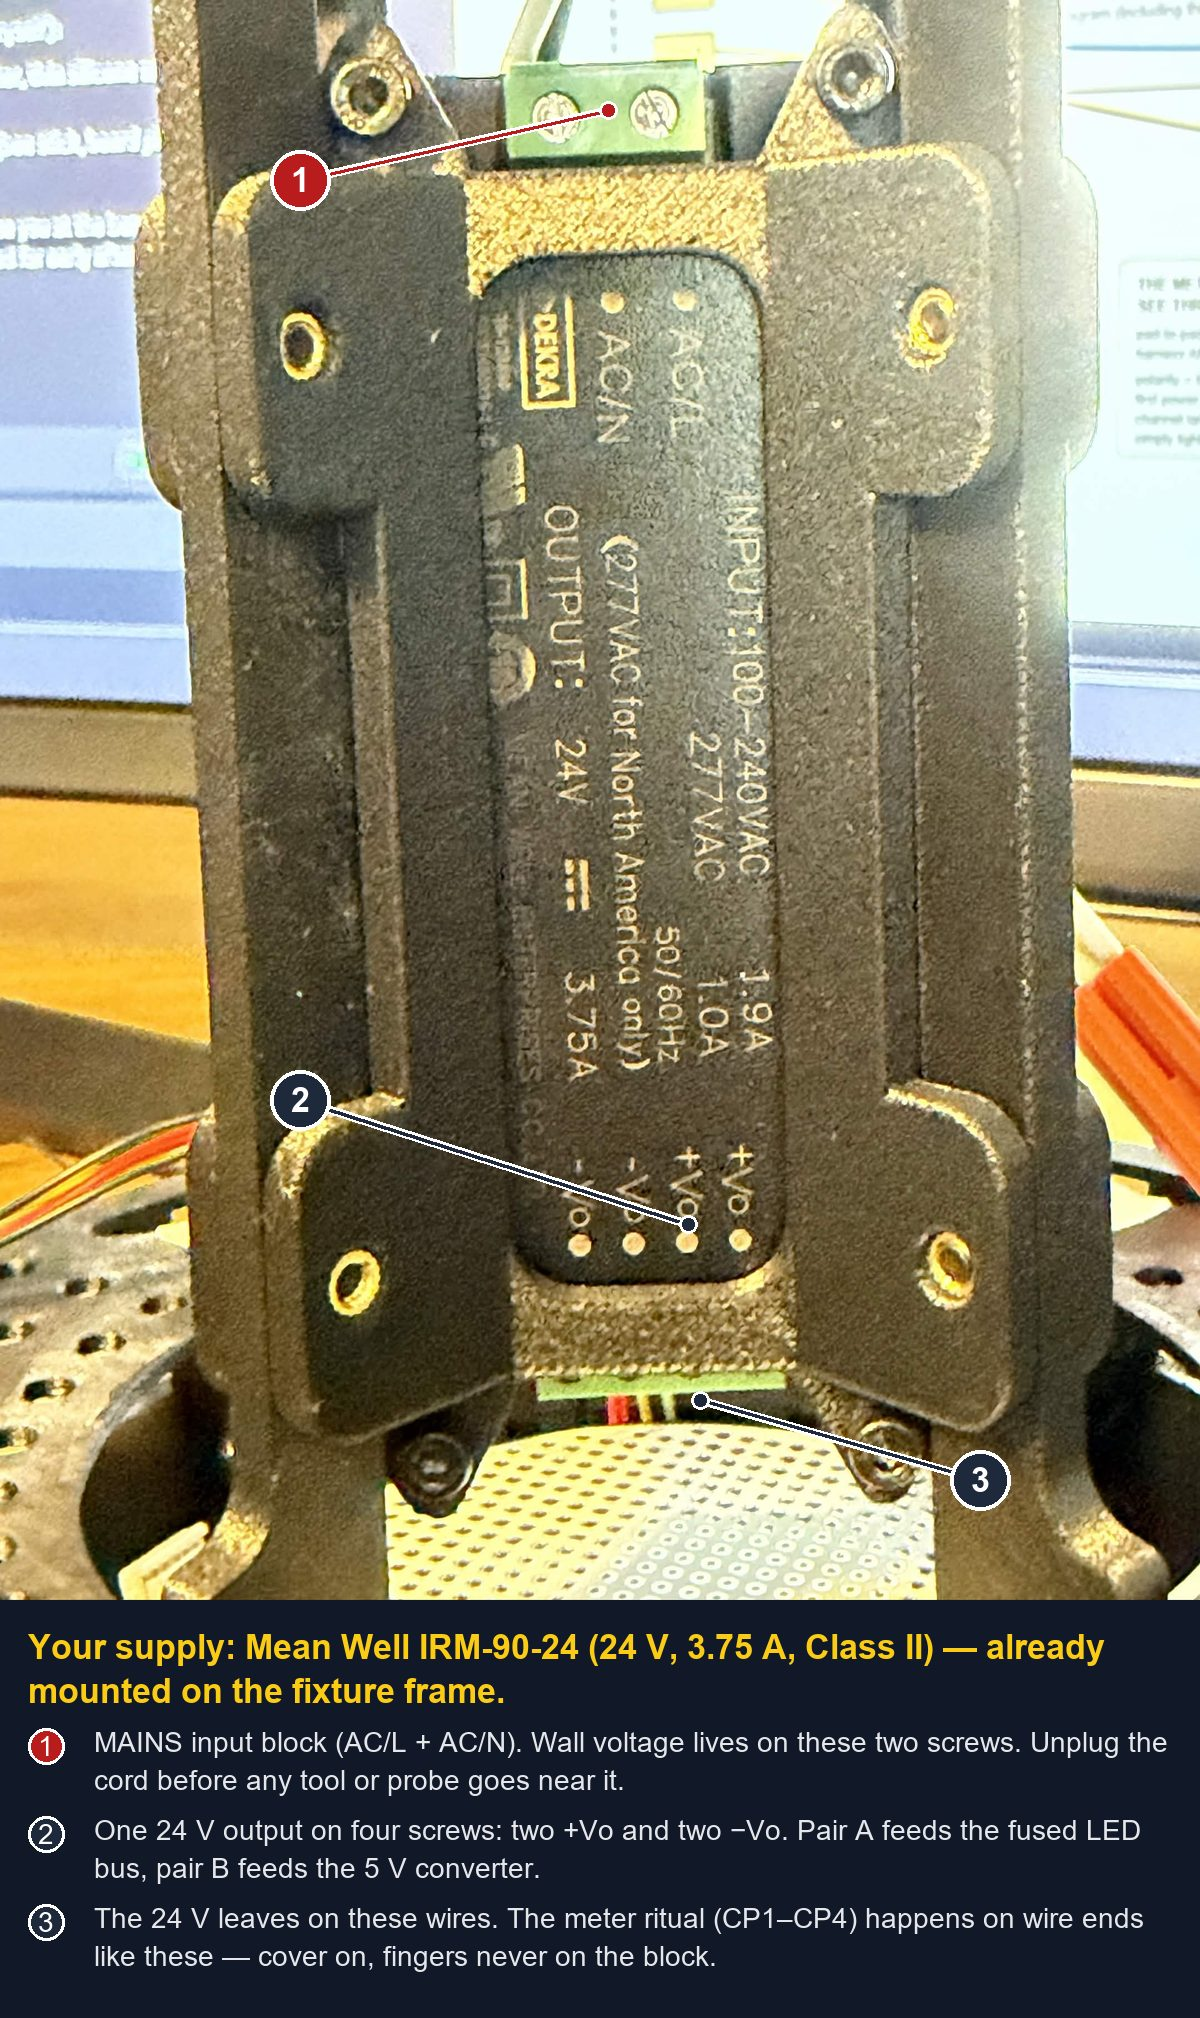
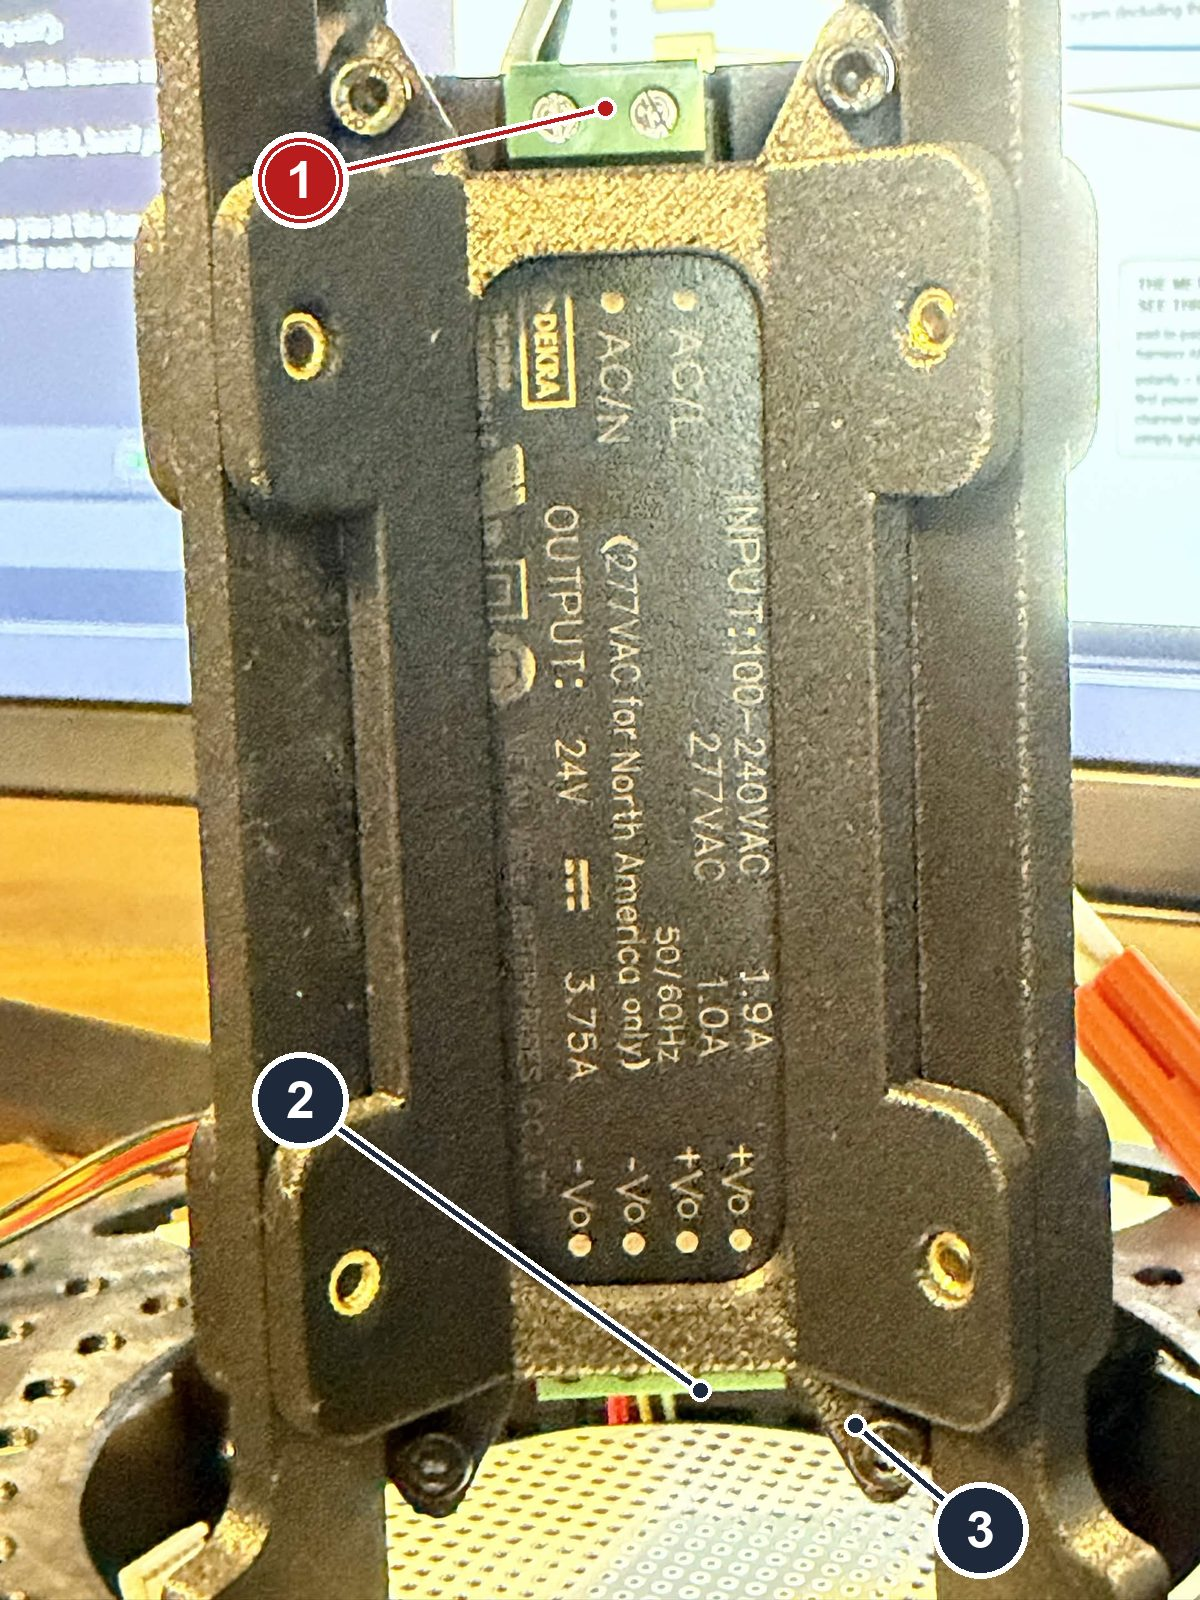
Doc 4a: the photos survive their own adversarial review
Three reviewers attacked the annotated photos and won often enough to
matter. The legends leave the pixels and become real page text - the old
bake rendered at seven CSS pixels on the phone this guide is read on,
unsearchable and invisible to a screen reader. The bubbles double in size;
red now means mains and nothing else, amber marks the silent traps. Two
dots were provably wrong and are fixed against high-resolution crops: the
hub's A0 callout sat on A1 (a bridge there is address 0x42 and a hub
nobody finds), and the channel callout sat in the wrong column (the wire
comes off PWM, nothing else). Three zoom insets make A0, the channel grid,
and the C6's GPIO digits countable instead of guessable.

The text gains what tonight's real question exposed: the cord section -
black is LIVE and lands on AC/L, white is neutral on AC/N, no ground
exists on a Class II supply, and both leads are treated as live because a
lamp socket can be miswired upstream. Also fixed on review: the buck is
fed from pair B unfused (three places said three things), CP1-CP3 are
bare-screw unplugged checks not pigtail checks, 5 V on hub VCC is named
as the brain-killer it is via the pull-ups, the mirrored control headers
get their warning, the W/N/C letters get their Kelvin table, the tape gets
its 2-3 mm strip rule, the spotlight driver moves up to parts-box triage,
and the schematic that drew the cut line in the wrong place now sits
below the photo that draws it right.

diff --git a/docs/04a-wire-the-zones.md b/docs/04a-wire-the-zones.md
@@ -24,13 +24,17 @@ Everything below is verified against the manufacturers' own datasheets, and ever
 
 Doc 4 [stage 1](04-full-fixture-bench.md#stage-1-power-backbone) says "bench supply" and draws a lab brick. On this bench the supply *is* the **Mean Well IRM-90-24ST** — the exact part [Doc 8](08-build-the-fixture.md) later mounts inside the fixture body. Same rail, same protection, same screw block: run the fixture's own documented supply from day one and the fixture's power chapter validates itself while you build zones.
 
-[Doc 8](08-build-the-fixture.md) describes that block as "L, N, +Vo, −Vo" — which under-describes the thing in front of you. The ST's output side **duplicates its terminals: two +Vo screws and two −Vo screws**, internally one output. Six screws total, and the two on the left are mains.
+[Doc 8](08-build-the-fixture.md) describes that block as "L, N, +Vo, −Vo" — which under-describes the thing in front of you. The ST's output side **duplicates its terminals: two +Vo screws and two −Vo screws**, internally one output. Six screws total, and the pair at the **AC/L–AC/N end** is mains — on the mounted unit in the photo below, that end is uppermost.
 
 ![IRM-90-24ST terminal block, checkpoints CP1–CP4, and the pigtail split](assets/wiring-psu-terminals.svg)
 
-And here is the diagram's subject in the flesh — this build's own unit, already mounted on the fixture frame:
+And here is the diagram's subject in the flesh — this build's own unit, already mounted on the fixture frame. It is shown with the terminal cover off **for this photo only**; the rules below put it back:
 
-![The bench's own IRM-90-24, annotated: the mains block, the doubled output screws, and where the meter ritual actually happens](assets/photo-psu-irm90.jpg)
+![This build's IRM-90-24ST mounted on the fixture frame, mains block at the top, output block at the bottom](assets/photo-psu-irm90.jpg){ loading=lazy }
+
+1. **DANGER — the mains block (AC/L + AC/N).** Wall voltage lives on these two screws whenever the cord is plugged in. Unplug — not switched off — before any tool or probe goes near it.
+2. **The output block: four screws, two +Vo and two −Vo, internally one 24 V output.** CP1–CP3 happen here — on these bare screws, **unplugged**, *before* any pigtails are landed.
+3. **The pigtail ends.** Every *powered* reading (CP4: 24 V ±5% on every +/− pairing) happens out here on wire ends, cover on, fingers never on the block. Pair A → the fuse → the LED bus; pair B → the 5 V buck, deliberately unfused — **after** CP1/CP2 prove the doubled screws are common.
 
 Four rules before a screwdriver goes anywhere near it. Each one is named after the way it fails:
 
@@ -40,6 +44,18 @@ Four rules before a screwdriver goes anywhere near it. Each one is named after t
 4. **Strain relief on the cord.** The named failure is one snag: it pulls L out of its screw and leaves it waving bare inside the bench. Anchor the cord so a tug lands on the anchor, never on the screws.
 
 There is no earth screw on this block, and there is not supposed to be: the IRM is **Class II** — double-insulated. Do not go looking for a ground to add.
+
+### The cord itself — which wire is which
+
+The mains feed on this bench is an **E26 socket-to-wire adapter** — a lamp socket with two 18 AWG leads, black and white. Get this straight once, because guessing it backwards is the most dangerous mistake this chapter can host:
+
+- **Black = LIVE (hot) → lands on AC/L.** In North American wiring, black is never ground. Ever.
+- **White = NEUTRAL → lands on AC/N.**
+- **There is no ground wire, and this block takes none.** Two leads is correct for a Class II supply. A green or bare wire has no home here.
+
+And then the rule that outranks the colors: **treat both leads as live whenever the adapter is screwed into a powered socket.** A lamp socket can be miswired upstream — shell hot instead of shell neutral — and the adapter's leads inherit whatever the socket does. The colors tell you where each lead *lands*; they never tell you a lead is safe to touch. Unplugged is the only safe.
+
+Landing the leads under L and N — strip, seat, tighten, tug, cover on — is the same screw ritual as the output side, done **first**, cord out of the wall.
 
 ### The sequence that makes powered probing safe
 
@@ -75,13 +91,28 @@ The breadboard carries **signals only** — I2C, dimmer lines, milliamps. A brea
 
 Three checkpoints close the backbone: 24 V at the bus after the fuse (CP5), 5.0 V at the buck output **measured before the ESP32 is connected** (CP6 — a swapped VIN/GND survives; fix it and re-test), and one resistance sweep proving supply−, the star, the ESP32's GND, and every ULN pin 9 all sit within 1 Ω of each other (CP7).
 
-![The Pololu 24 V to 5 V converter, annotated: IN from the fused bus, GND to the star, OUT is checkpoint CP6, PG and EN stay empty](assets/photo-buck-5v.jpg)
+The buck itself, before it goes anywhere (it ships bare — two wires soldered to IN and GND are all it needs today):
+
+![The Pololu 5 V step-down regulator, bare, pin row along its left edge](assets/photo-buck-5v.jpg){ loading=lazy }
+
+1. **IN** — 24 V from the supply's **pair-B pigtail, straight off the PSU.** Not through the fuse: the single T3.15AL250V guards the LED bus only. (Only in the single-pair fallback does IN come off the fused bus instead.)
+2. **GND** — two pads, same net: the corner pad *and* the in-row pad between IN and OUT. Use either; one goes to the ground star.
+3. **OUT** — expect **5.0 V** here on the meter. That is CP6, and nothing connects to this pin today.
+4. **PG and EN** — the first two holes in the row. Leave both empty.
 
 ---
 
 ## The chain, demystified
 
 Stage 2's diagram shows the whole chain at once — it stays [where it is](04-full-fixture-bench.md#stage-2-first-light-one-zone-three-sliders); this section is the close-ups. Two part numbers do everything, and neither is an explanation. Here is what each one *is*.
+
+First, triage the parts box. One board in it looks like it belongs in this chain and does not — it drives the *spotlight*, a different milestone with different physics:
+
+![The three-channel constant-current driver, banner-marked: spotlight only, never the tape](assets/photo-spotlight-driver-warning.jpg){ loading=lazy }
+
+This is the BoM's PicoBuck-class driver (this unit's chips read AL8860; ~330 mA per channel). It forces a fixed **current** through three **separate** outputs — the tape is a fixed-**voltage**, common-anode part with one shared 24 V, so there is nothing here for it to connect to. Set it aside until spotlight day. The same fence runs the other way: the spotlight's bare LED star never touches the 24 V bus.
+
+And a fact both remaining boards share: **they ship bare.** The dimmer hubs and the spare brain all arrive with loose header strips. Solder the headers first — [Doc 8's five rules](08-build-the-fixture.md#soldering-these-boards-five-rules), big forgiving pads, and the best possible warm-up before the tape's small ones.
 
 ### Hop 1 — the PCA9685, or: sixteen dimmers on two wires
 
@@ -94,11 +125,27 @@ The **address is a house number.** Both boards hear every order on the same two 
 !!! danger "An unbridged board #2 is a second 0x40, not a missing 0x41"
     Skip the jumper and board #2 does not sit quietly waiting to be found. It is a **second device answering at 0x40** — both chips reply at once, and the bus traffic meant for the zones that already work gets corrupted by the newcomer. The failure reads backwards: you added zones 6 and 7 and *zones 1 through 5* started glitching. Bridge A0 with everything unpowered, **before the board's SDA and SCL ever touch the bus.**
 
-![This build's own hub, annotated: VCC's 3.3 V law, the two shared wires, the empty V+ and OE, zone 1's three channels, and the A0 pads board #2 gets bridged on](assets/photo-pca9685-hub.jpg)
+![This build's own hub, a genuine Adafruit PCA9685 at address 0x40](assets/photo-pca9685-hub.jpg){ loading=lazy }
+
+1. **CAUTION — VCC.** Takes **3.3 V from the brain, never 5 V**. This is not just a silent failure: the board's own pull-up resistors tie SDA and SCL to VCC, so 5 V here puts 5 V on the C6's GPIO 2 and 3 — past the chip's 3.6 V absolute maximum. It can kill the brain, quietly.
+2. **CAUTION — V+, VCC's next-door neighbour.** Stays **EMPTY**. One position over from the pin you want, and the reason to read the silkscreen letter by letter.
+3. **SDA and SCL** — the two shared wires, from GPIO 2 and GPIO 3 respectively.
+4. **GND** — to the ground star. (OE, two pins over, also stays empty — a genuine Adafruit board already holds it enabled; on a clone, verify.)
+5. **Channel 0** — zone 1's three channels are 0, 1, 2, and the wire comes off the **PWM** hole of each, nothing else. See the close-up below.
+6. **The V+/GND terminal footprint** (block supplied loose) — stays unpopulated for the tape build.
+7. **The A0 address pads** — hub #2 only: bridge this pair with solder so it answers at 0x41, *before* its bus wires ever land. See the close-up below.
+
+One trap the photo can't show: **both ends of the board carry the same six control pins in mirrored order.** Use the end shown here, and read the silkscreen every time — landing the four wires on the far end in the same left-to-right order swaps SDA with SCL and puts VCC on V+.
+
+The two close-ups that make 5 and 7 unmistakable:
+
+![Close-up of the channel grid: the PWM column is the only column you use; rows 0, 1, 2 are zone 1](assets/photo-pca9685-channels.jpg){ loading=lazy }
+
+![Close-up of the address pads: A0 is the bottom pair, the one hub #2 gets bridged on](assets/photo-pca9685-a0.jpg){ loading=lazy }
 
 Three traps, all pre-solved in the stage YAML but not in your wiring:
 
-- **VCC gets 3.3 V. Never 5 V.** At 5 V the chip's logic threshold rises above what the C6 outputs and I2C fails *silently* — the maddening kind, where every wire is seated and nothing answers.
+- **VCC gets 3.3 V. Never 5 V.** At 5 V the chip's logic threshold rises above what the C6 outputs and I2C fails *silently* — and worse, the board's pull-ups drag SDA/SCL to VCC, putting 5 V on GPIO pins rated for 3.6 V absolute maximum. The silent failure can also be a dead brain.
 - **V+ stays unconnected.** It is servo power for a job this board doesn't have.
 - **OE must sit low.** On a genuine Adafruit board a pulldown already holds it there; on a clone, verify — a floating OE tri-states all sixteen outputs, and the board plays dead while the I2C scan looks perfect.
 
@@ -106,7 +153,17 @@ Before power touches the chain, CP8: the wire landing on PCA VCC beeps to the 3V
 
 The other end of those two wires is the brain. This build keeps a spare ESP32-C6 board for exactly this chapter — the whole chain gets proven on the expendable board before the fixture's own brain ever touches it:
 
-![The spare ESP32-C6 board, annotated: 3V3 and GND to the hub, GPIO 2 and 3 as the two shared wires, and the COM port the test program talks through](assets/photo-spare-c6.jpg)
+![The spare ESP32-C6 dev board, bare, antenna up, two USB-C ports at the bottom](assets/photo-spare-c6.jpg){ loading=lazy }
+
+1. **CAUTION — 3V3.** This pin powers the hub's VCC. Never a 5 V pin — see the hub trap above for why that can kill this board.
+2. **GND** — to the ground star. Every board shares one floor.
+3. **GPIO 2 = SDA.** On the antenna-side header, it is the **first pin below GND** — the close-up below shows the printed digits.
+4. **GPIO 3 = SCL** — the second pin below GND.
+5. **The left USB-C port, silkscreened COM** — the cable goes here to drive the test program.
+
+Solder the header pins into the **outer round holes** — the inner flat pads are for surface-mounting, and a pin sunk there will not reach a breadboard. Four pins are enough: GND, 3V3, 2, 3.
+
+![Close-up of the antenna-side header: GND, then 2 (SDA), then 3 (SCL), printed on the board itself](assets/photo-spare-c6-pins.jpg){ loading=lazy }
 
 ### Hop 2 — the ULN2803, or: eight switches in one chip
 
@@ -116,10 +173,6 @@ A ULN2803 is **eight electronic switches in one package**. Put 3.3 V on IN *n* a
 
 Pin 9 goes to the star. Pin 10 stays unconnected.
 
-One board in the parts box looks like it belongs in this chain and does not — it drives the *spotlight*, a different milestone with a different physics:
-
-![The three-channel constant-current driver with its warning banner: spotlight only, never the tape](assets/photo-spotlight-driver-warning.jpg)
-
 One closing rule for the whole chain: **one I2C master and one 3V3 source on the bus at a time.** The C6 gives the orders and the C6's regulator feeds the logic — wire in a second of either and the bus stops being a party line and becomes a committee.
 
 ---
@@ -128,21 +181,40 @@ One closing rule for the whole chain: **one I2C master and one 3V3 source on the
 
 The Valent X spool is the most expensive thing on this bench, and the work in this section is the only work that can damage it. Read all of it before the iron heats up.
 
-![Tape end close-up: cut line, printed pads, wire flags, solder order, strain relief, and the stray-strand trap](assets/wiring-zone-solder.svg)
-
 **Practice on the spool tail first.** The spool's outer end is scrap the moment you cut your first zone. Make two or three practice joints there before touching a real zone: a lifted pad on the tail costs nothing, and a lifted pad on a cut zone costs one cut-line of tape — not the day, but not free either. Nobody's first tape joint should be one that has to work.
 
 This is your spool at a cut line — the four pads, and the printed letters every wire label copies:
 
-![The Valent X tape at a cut line, annotated: 24V+, W, N and C pads, and the pad row the cut goes through](assets/photo-tape-pads.jpg)
+![The Valent X tape at a cut line: four half-moon pads in a row, per-die letters beside each LED](assets/photo-tape-pads.jpg){ loading=lazy }
+
+1. **24V+** — the shared plus wire, common to all three channels. Comes from the fused 24 V bus (WAGO), never from a breadboard rail.
+2. **W** — the warm channel's negative wire.
+3. **N** — the neutral channel's negative. **Nothing to do with mains neutral** — here N is just a color.
+4. **C** — the cool channel's negative.
+5. **CAUTION — the cut.** The dashed line in the photo is where the printed cut line runs: **straight across the tape, through the centres of all four pads.** Each half-moon becomes a full pad for the segment on its side. Anywhere else kills the segments on both sides of your scissors.
+
+What the letters mean, in the vocabulary every other table on this site uses:
+
+| Pad letter | Channel | Lands on |
+|---|---|---|
+| W | **1800 K** warm | its own ULN OUT pin |
+| N | **3500 K** neutral | its own ULN OUT pin |
+| C | **6500 K** cool | its own ULN OUT pin |
+
+Because 24V+ is shared, **a solder bridge between any two pads is a dead short** — CP10's whole job is catching one.
 
 The rules, each with its failure attached:
 
 - **Cut at the printed cut lines.** Anywhere else severs traces mid-segment, and both segments on either side of the cut go dark forever.
 - **Label every wire from the tape's printed pad markings.** Never from wire color, and never from any diagram — including ours. Your spool's pad order is the authority; a diagram is somebody else's spool. Write the label on a flag of tape at both ends of the wire before the wire ever meets the iron.
 - **Use 24–26 AWG silicone stranded wire for pad wires.** 22 AWG solid is the canonical lifted-pad cause: it works as a lever, and every nudge of the stiff wire pries at a pad held on by adhesive and hope. The floppy stuff can't transmit a snag to the joint.
+- **Strip only 2–3 mm for a tape pad** — a bared length that fits *on* the half-moon with nothing hanging over. This is not the WAGO's 11 mm; carry that habit here and the overhang becomes the stray strand CP9 exists to catch.
 - **Solder order, tinning, and what a good joint looks like** are [Doc 8's five rules](08-build-the-fixture.md#soldering-these-boards-five-rules) — tin the pad, tin the wire, touch them together with the iron, and expect the tiny volcano, not the blobby ball. They are not repeated here; go read them.
 - **Strain-relieve the 4-wire pigtail within ~20 mm of the pads BEFORE the tug test.** Anchor the bundle to the tape's backing so a pull lands on the anchor, not the joints. Do it in this order or the tug test is itself the pad-lift event — you would be testing the pads' adhesive, not your solder.
+
+The schematic version of the same step, for the wire-flag and solder-order detail:
+
+![Tape end schematic: printed pads, wire flags, solder order, strain relief, and the stray-strand trap](assets/wiring-zone-solder.svg)
 
 ### The meter cannot see through LEDs
 
@@ -192,21 +264,23 @@ When the checklist passes and the iron comes out, the technique chapter is alrea
 
 Work the ladder top-down. Each rung is a witness, and each failure names exactly who it indicts — never skip a rung, because every rung you pass clears a suspect.
 
+Rung 2's far end is the radio the commands travel through. It lives in the Home Assistant box, never gets a wire from this bench, and pairing happens on HA's screen:
+
+![The Zigbee coordinator stick, plugged into the Home Assistant box](assets/photo-zigbee-stick.jpg){ loading=lazy }
+
+1. Stays plugged in exactly as it is — on the day, you open **Add device** in Home Assistant and the fixture pairs to this.
+
 | Rung | Witness | Healthy reading | A failure here indicts |
 |---|---|---|---|
 | 1 | Tap the zone in the app | It lights | Nothing. Go home. |
 | 2 | The zone's serial line in the console: `ZB zone=1 on=1 level=255` | The line prints as you tap | Line missing → the command never reached the board — the network/app side, not one wire of yours |
-| 3 | The hub ACK witness: `ZB pca hub=0x40 present=1` | `present=1` | `present=0` → the I2C hop: SDA/SCL seating, VCC on 3.3 V, the address jumper |
+| 3 | The hub ACK witness: `ZB pca hub=0x40 present=1` | `present=1` | `present=0` → the I2C hop: SDA/SCL seating **or swapped**, VCC on 3.3 V, the address jumper |
 | 4 | **CP13** — DMM on the zone's PCA LED pin, zone commanded **100%** | ~3.3 V (the pin's average is duty × 3.3 V) | 0.00 V at 100% with the hub ACK good → the PCA output or OE |
 | 5 | **CP14** — DMM on the zone's ULN OUT pin | ~1 V commanded on; commanded off it reads **high and unstable, ~8–24 V** through the LED string — that instability is normal | ~1 V while commanded **off** → a stuck ULN channel |
 | 6 | **CP15** — across the lit channel, tape +24 pad to that channel's − | ~23 V | 23 V present and still dark → the tape itself: a joint past the probe, a dead cut, or a reversed pad |
 | 7 | Nothing anywhere | — | Back to the stage-1 ritual numbers: bus, buck, grounds |
 
 One meter honesty note for rung 4: **a DMM averages PWM.** At 40% it reads ~1.3 V, at 70% ~2.3 V — numbers that look like faults and aren't. Never probe at partial level; command 100% and expect ~3.3 V, or learn nothing.
-
-Rung 2's far end, for completeness — the radio the commands travel through. It lives in the Home Assistant box and never gets a wire from this bench:
-
-![The Zigbee coordinator stick in the Home Assistant box — nothing to wire; pairing happens on HA's screen](assets/photo-zigbee-stick.jpg)
 
 ---
 
